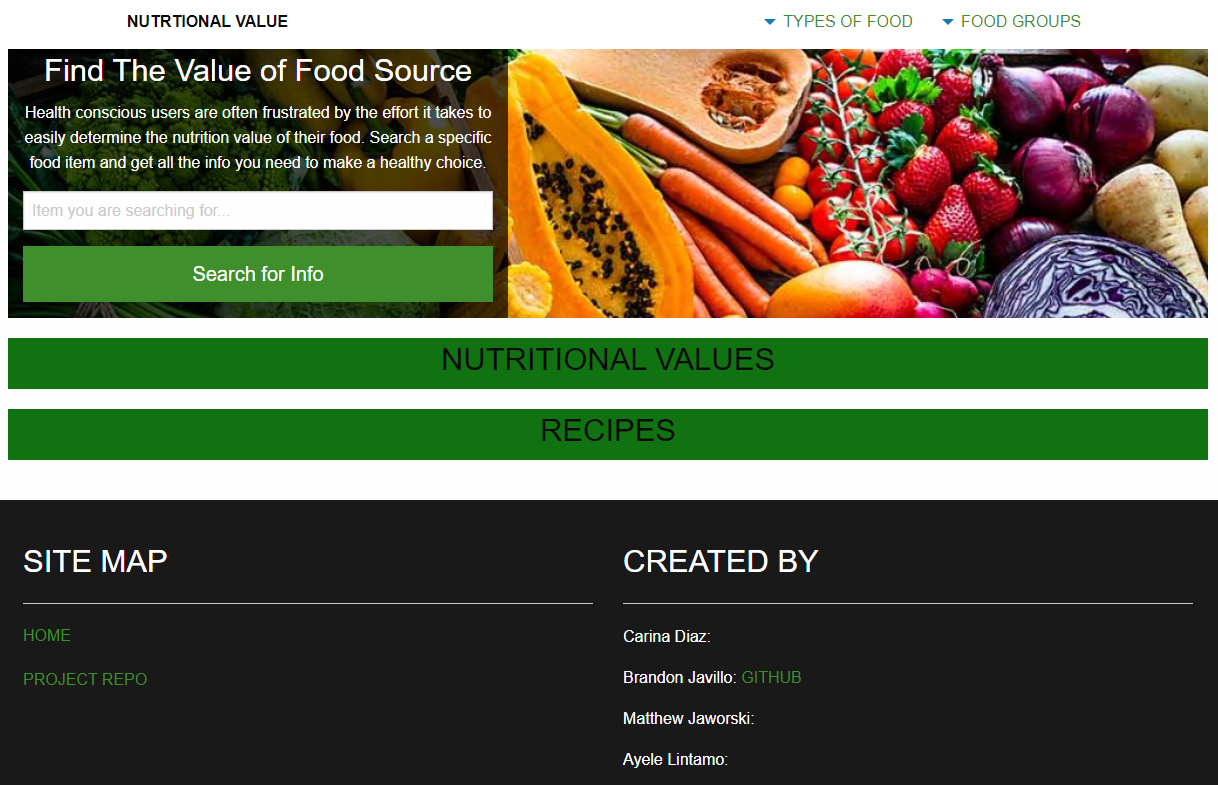
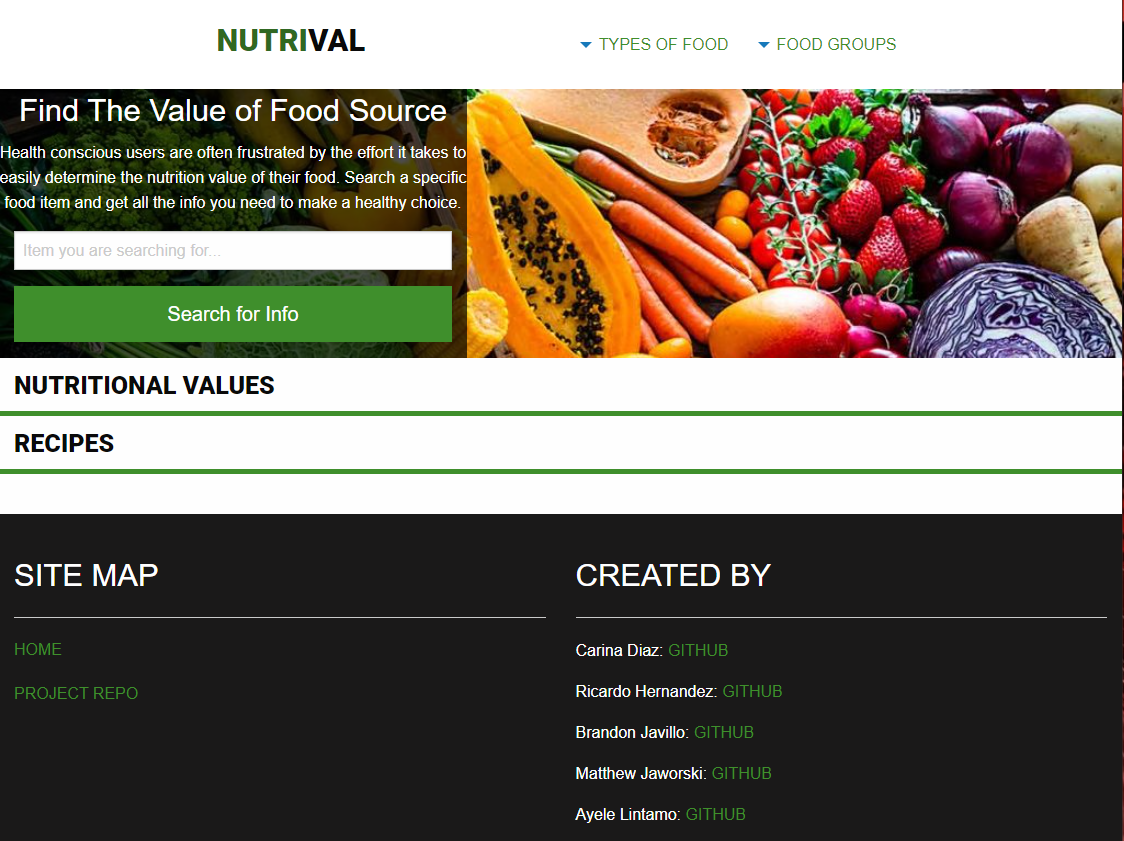
added information for README

diff --git a/README.md b/README.md
@@ -12,7 +12,10 @@ User story - Always looking for sites that can tell you how much weight of a spe
 
 ## Deployment
 
+(https://github.com/Bjavillo1059/Nutritional-Value)
+
 <img src="./assets/img/Project Snippet.PNG" alt=" img of Project Snippet"/>
+
 
 ## Technology Used
 
@@ -21,6 +24,56 @@ User story - Always looking for sites that can tell you how much weight of a spe
 - JavaScript     Brandon/Carina/Matthew
 - Foundation JS     Brandon/Carina/Matthew
 - Nutritionix API Brandon
-- FDC US Department of Agriculture API
+- Edamam API Carina
 
-## RoadMap
+## Process
+
+As User when NutriVal link is opened, a display will show the title "NutiVal" to the left of a Navbar and Dropdown links to the right.
+
+- drop downlinks display the two specific subjects that link to descriptions
+- all dropdown items are linked to other sites for descriptions
+- these dropdown links are the subject of an article that are directly relayed for in the Types of Food and Food Groups
+    - website used for these breakdowns is (https://en.yestherapyhelps.com/the-12-types-of-nutrition-and-their-characteristics-12159)
+
+    - Types of Food
+        - Meats/Fish
+        - Vegetables/Legumes/Beans
+        - Fruits
+        - Grains
+        - Dairy
+
+    - Food Groups 
+        - Vegenism
+        - Vegetarianism
+        - Emotional Eating
+        - Sports Nutrition
+        - Healthy Eating
+
+A User has the option of inputing a food item in the input section where it reads "item you are searching for...", when the item is annotated in the input black the User will then click the "Search for Info" button.
+
+- this function will render multiple information from querying API's and will display specific information
+- API's used for information gathering:
+    - Nutrionix API
+        - will aquery API for information value that is normally found on Nutrition labels in the United States
+        - infromation will display within the Nutritional Values field
+        - a public APP_ID is required for search query
+        - a publis API_key is required for search query
+        - API only allows 200 search query's daily
+
+    - Edamam API
+        - will query API for information value of 4 popular recipes found and will display with the recipe field
+        - a public APP_ID is required for search query
+        - a publis API_key is required for search query
+        - API allows for 10,000 search query's a week
+
+A User can choose to inspect Site Map information and contributors GitHub pages
+
+- the home link and project repo link will link the user to the site project page on GitHub
+- links under "SiteMap"
+
+    - contributors:
+        - Carina Diaz
+        - Ricardo Hernandez
+        - Brandon Javillo
+        - Matthew Jaworski
+        - Ayele Lintamo
